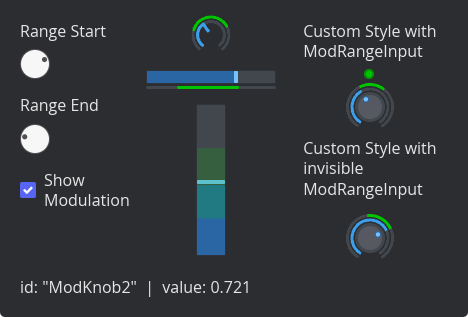
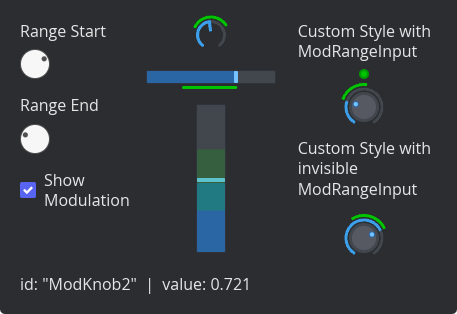
use Option<ModulationRange> for mod_range methods, tweak example style

diff --git a/examples/mod_range.rs b/examples/mod_range.rs
@@ -211,20 +211,21 @@ impl ModRangeExample {
         // the corresponding parameter
 
         let knob_start = Knob::new(self.knob_start_param, Message::RangeStart);
-
         let knob_end = Knob::new(self.knob_end_param, Message::RangeEnd);
 
+        let mod_range_1 = self.show_modulation.then_some(&self.mod_range_1);
+
         let knob1 = Knob::new(self.knob1_param, Message::Knob1)
-            .mod_range(&self.mod_range_1)
+            .mod_range(mod_range_1)
             .style(style::knob::CustomArc);
 
         let h_slider1 = HSlider::new(self.h_slider1_param, Message::HSlider1)
-            .mod_range(&self.mod_range_1)
+            .mod_range(mod_range_1)
             .style(style::h_slider::RectStyle);
 
         let v_slider1 = VSlider::new(self.v_slider1_param, Message::VSlider1)
             .width(Length::Fixed(30.0))
-            .mod_range(&self.mod_range_1)
+            .mod_range(mod_range_1)
             .style(style::v_slider::RectStyle);
 
         let auto_input1 = ModRangeInput::new(self.auto_input1_param, Message::ModRangeInput1)
@@ -233,7 +234,7 @@ impl ModRangeExample {
             .enabled(self.show_modulation);
 
         let knob_auto1 = Knob::new(self.knob_auto1_param, Message::ModKnob1)
-            .mod_range(&self.knob_auto1_mod_range)
+            .mod_range(self.show_modulation.then_some(&self.knob_auto1_mod_range))
             .style(style::knob::CustomStyleCircle);
 
         let auto_input2 = ModRangeInput::new(self.auto_input2_param, Message::ModRangeInput2)
@@ -242,7 +243,7 @@ impl ModRangeExample {
             .enabled(self.show_modulation);
 
         let knob_auto2 = Knob::new(self.knob_auto2_param, Message::ModKnob2)
-            .mod_range(&self.knob_auto2_mod_range)
+            .mod_range(self.show_modulation.then_some(&self.knob_auto2_mod_range))
             .style(style::knob::CustomStyleCircle);
 
         // push the widgets into rows

diff --git a/examples/style/knob.rs b/examples/style/knob.rs
@@ -63,7 +63,8 @@ impl knob::StyleSheet for CustomStyleCircle {
         Some(knob::ModRangeArcAppearance {
             width: 3.0,
             offset: 6.0,
-            empty_color: Some(colors::KNOB_ARC_EMPTY),
+            empty_color: None,
+            //empty_color: Some(colors::KNOB_ARC_EMPTY),
             filled_color: colors::KNOB_ARC_RIGHT,
             filled_inverse_color: colors::KNOB_ARC_RIGHT,
             cap: knob::LineCap::Butt,
@@ -123,7 +124,8 @@ impl knob::StyleSheet for CustomStyleLine {
         Some(knob::ValueArcAppearance {
             width: 2.5,
             offset: 2.0,
-            empty_color: Some(colors::KNOB_ARC_EMPTY),
+            empty_color: None,
+            //empty_color: Some(colors::KNOB_ARC_EMPTY),
             left_filled_color: colors::KNOB_ARC,
             right_filled_color: Some(colors::KNOB_ARC_RIGHT),
             cap: knob::LineCap::Round,
@@ -172,7 +174,8 @@ impl knob::StyleSheet for CustomArc {
         Some(knob::ModRangeArcAppearance {
             width: 3.0,
             offset: 1.5,
-            empty_color: Some(colors::KNOB_ARC_EMPTY),
+            empty_color: None,
+            //empty_color: Some(colors::KNOB_ARC_EMPTY),
             filled_color: colors::KNOB_ARC,
             filled_inverse_color: colors::KNOB_ARC_RIGHT,
             cap: knob::LineCap::Round,

diff --git a/src/widget/h_slider.rs b/src/widget/h_slider.rs
@@ -228,8 +228,8 @@ where
     ///
     /// [`ModulationRange`]: ../../core/struct.ModulationRange.html
     /// [`StyleSheet`]: ../../style/v_slider/trait.StyleSheet.html
-    pub fn mod_range(mut self, mod_range: &'a ModulationRange) -> Self {
-        self.mod_range_1 = Some(mod_range);
+    pub fn mod_range(mut self, mod_range: Option<&'a ModulationRange>) -> Self {
+        self.mod_range_1 = mod_range;
         self
     }
 
@@ -239,8 +239,8 @@ where
     ///
     /// [`ModulationRange`]: ../../core/struct.ModulationRange.html
     /// [`StyleSheet`]: ../../style/v_slider/trait.StyleSheet.html
-    pub fn mod_range_2(mut self, mod_range: &'a ModulationRange) -> Self {
-        self.mod_range_1 = Some(mod_range);
+    pub fn mod_range_2(mut self, mod_range: Option<&'a ModulationRange>) -> Self {
+        self.mod_range_2 = mod_range;
         self
     }
 

diff --git a/src/widget/knob.rs b/src/widget/knob.rs
@@ -215,8 +215,8 @@ where
     ///
     /// [`ModulationRange`]: ../../core/struct.ModulationRange.html
     /// [`StyleSheet`]: ../../style/v_slider/trait.StyleSheet.html
-    pub fn mod_range(mut self, mod_range: &'a ModulationRange) -> Self {
-        self.mod_range_1 = Some(mod_range);
+    pub fn mod_range(mut self, mod_range: Option<&'a ModulationRange>) -> Self {
+        self.mod_range_1 = mod_range;
         self
     }
 
@@ -226,8 +226,8 @@ where
     ///
     /// [`ModulationRange`]: ../../core/struct.ModulationRange.html
     /// [`StyleSheet`]: ../../style/v_slider/trait.StyleSheet.html
-    pub fn mod_range_2(mut self, mod_range: &'a ModulationRange) -> Self {
-        self.mod_range_1 = Some(mod_range);
+    pub fn mod_range_2(mut self, mod_range: Option<&'a ModulationRange>) -> Self {
+        self.mod_range_2 = mod_range;
         self
     }
 

diff --git a/src/widget/v_slider.rs b/src/widget/v_slider.rs
@@ -226,8 +226,8 @@ where
     ///
     /// [`ModulationRange`]: ../../core/struct.ModulationRange.html
     /// [`StyleSheet`]: ../../style/v_slider/trait.StyleSheet.html
-    pub fn mod_range(mut self, mod_range: &'a ModulationRange) -> Self {
-        self.mod_range_1 = Some(mod_range);
+    pub fn mod_range(mut self, mod_range: Option<&'a ModulationRange>) -> Self {
+        self.mod_range_1 = mod_range;
         self
     }
 
@@ -237,8 +237,8 @@ where
     ///
     /// [`ModulationRange`]: ../../core/struct.ModulationRange.html
     /// [`StyleSheet`]: ../../style/v_slider/trait.StyleSheet.html
-    pub fn mod_range_2(mut self, mod_range: &'a ModulationRange) -> Self {
-        self.mod_range_1 = Some(mod_range);
+    pub fn mod_range_2(mut self, mod_range: Option<&'a ModulationRange>) -> Self {
+        self.mod_range_2 = mod_range;
         self
     }
 

diff --git a/examples/style/h_slider.rs b/examples/style/h_slider.rs
@@ -48,7 +48,8 @@ impl h_slider::StyleSheet for RectStyle {
             back_border_color: Color::TRANSPARENT,
             back_border_width: 0.0,
             back_border_radius: 2.0,
-            back_color: Some(colors::KNOB_ARC_EMPTY),
+            back_color: None,
+            //back_color: Some(colors::KNOB_ARC_EMPTY),
             filled_color: colors::KNOB_ARC,
             filled_inverse_color: colors::KNOB_ARC_RIGHT,
         })